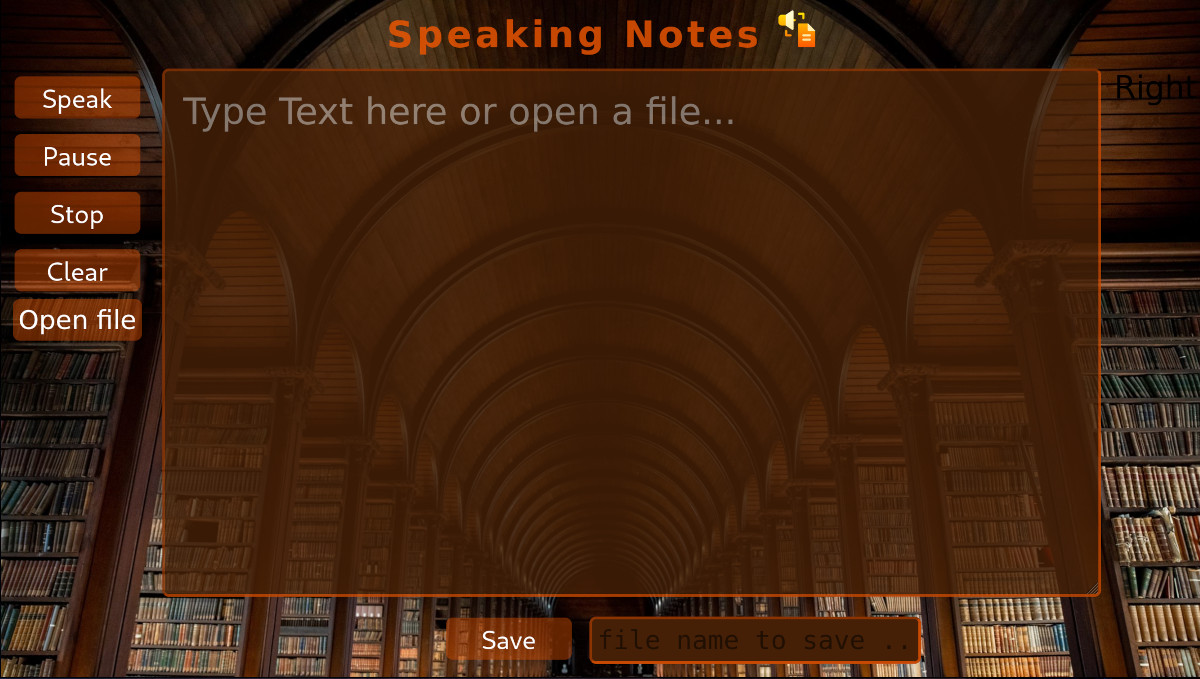
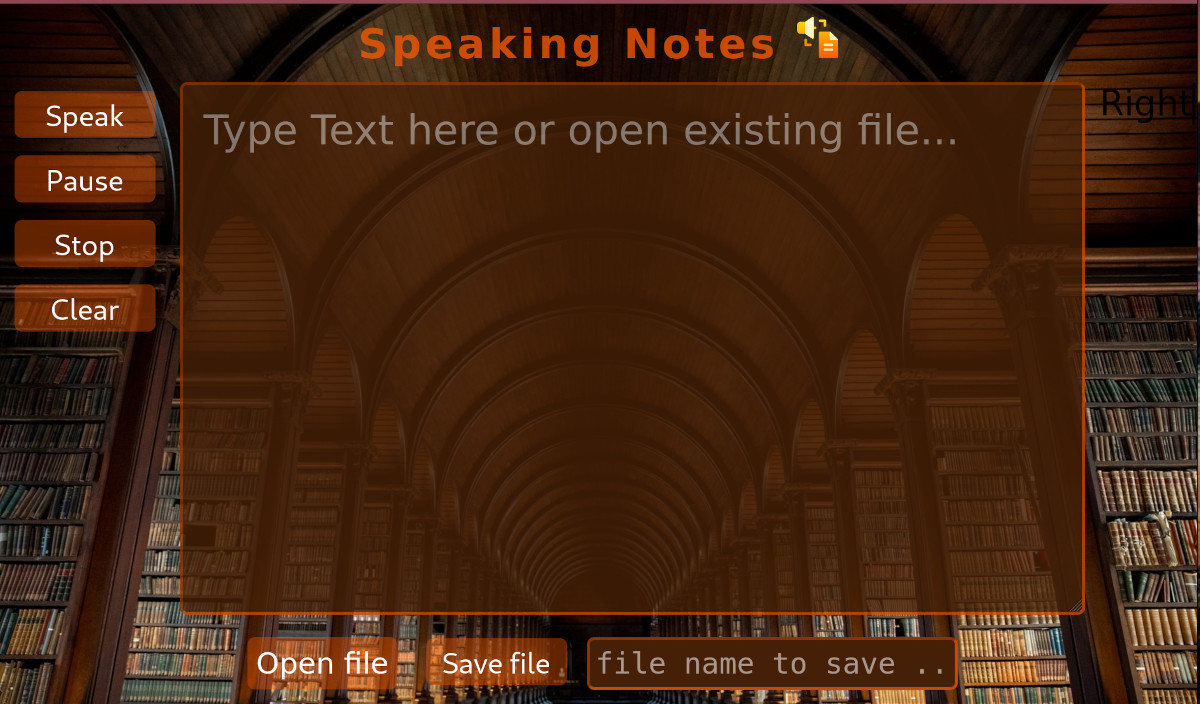
update css

Changed region(s): [[0.0, 0.0, 1.0, 1.0]]

diff --git a/tts-demo-1.2.1/tts-1.2.1.css b/tts-demo-1.2.1/tts-1.2.1.css
@@ -16,12 +16,12 @@ footer { grid-area: footer; }
   display: grid;
   height: 100vh;
   width: 100vw;
-  grid-template-columns: 110px 4fr 0.5fr;
+  grid-template-columns: 110px 4.5fr 0.5fr;
   grid-template-rows: 2.5em 1fr 3rem ;
   grid-template-areas: 
     'header header header header header header'
     'menu main main main main right'
-    'menu footer footer footer footer footer'; 
+    'footer footer footer footer footer footer'; 
   grid-gap: 10px;
   background-color: #2196F3;
   padding: .2em;
@@ -35,7 +35,6 @@ footer { grid-area: footer; }
 
 header {
   grid-row: 1;
-  /* max-height: 10%; */
 }
 
 h1 {
@@ -85,7 +84,6 @@ button-group {
   display: flex;
 }
 
-
 #btn-speak {
   flex: 1;
 }
@@ -117,7 +115,7 @@ button-group {
   border: none;
   outline: none;
   margin: .3em ;
-  padding: 0.2em;
+  padding: 0.3em;
   width: 6rem;
   height: auto;
   border-radius: 5px;
@@ -141,7 +139,7 @@ button-group {
 #file-name {
   font-family: monospace;
   font-size: 20px;
-  columns: white;
+  color: white;
   background-color: #462006;
   border-color: rgba(243, 88, 0, 0.75);
   border-radius: 5px;

diff --git a/tts-demo-1.2.1/index-1.2.1.html b/tts-demo-1.2.1/index-1.2.1.html
@@ -19,18 +19,18 @@
         <button id="btn-pause">Pause</button>
         <button id="btn-stop">Stop</button>
         <button id="btn-clearText">Clear</button>
-        <input type="file" id="file" multiple accept="text">
-        <label for="file">Open file</label>  
       </div> 
     </div>
     <div class="mainText">
-      <textarea type="text" id="input-field" placeholder="Type Text here or open a file..."></textarea>
+      <textarea type="text" id="input-field" placeholder="Type Text here or open existing file..."></textarea>
     </div>  
     
     <div class="rightMenu">Right</div>
-
+    
     <footer>
-      <button id="btn-save">Save</button>
+      <input type="file" id="file" multiple accept="text">
+      <label for="file">Open file</label>  
+      <button id="btn-save">Save file</button>
       <input placeholder="file name to save ..." type="text" id="file-name">
     </footer>
   </div>
